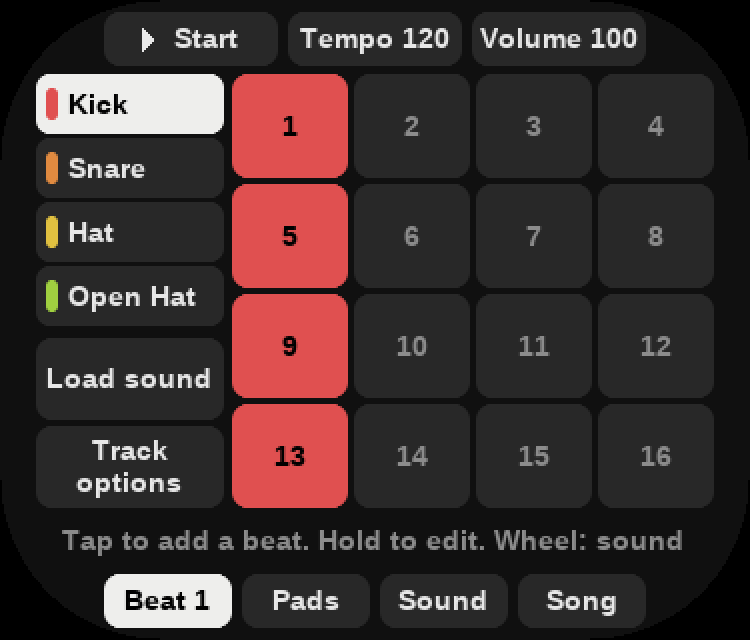
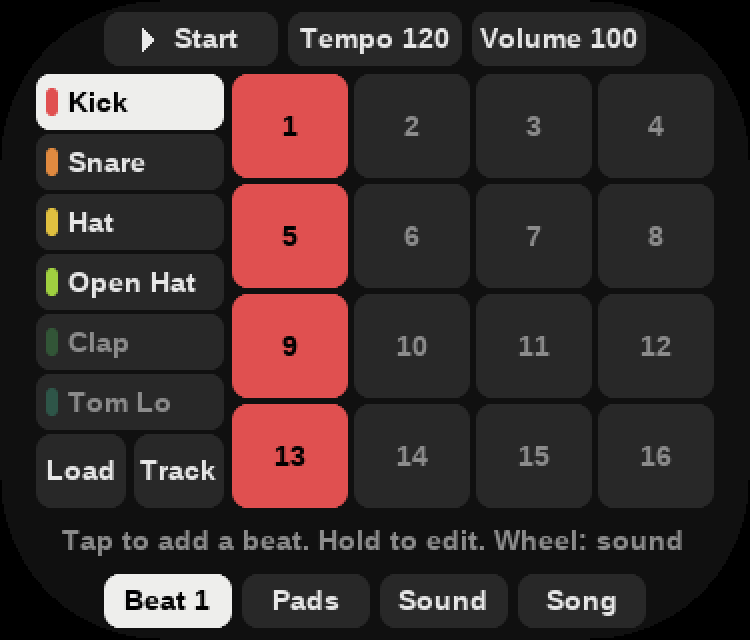
groovebox: small Load and Track buttons, six sounds in the list
The list showed four of sixteen sounds because Load and Track options
each took a full-width row. They now share one row under it, labelled
Load and Track, or Load and More on Sound.

Changed region(s): [[0.0613, 0.3125, 0.276, 0.6562], [0.0307, 0.125, 0.3067, 0.2812], [0.0613, 0.6875, 0.3067, 0.7812]]

diff --git a/src/ui.c b/src/ui.c
@@ -54,8 +54,11 @@
 #define BOXES 9            /* a page of them */
 #define ARROW_W 33
 #define ARROW_X 287
-#define LIST_ROWS 4
-#define LIST_ROW 32
+#define LIST_ROWS 6
+#define LIST_ROW 30
+#define SMALL_Y (BODY_Y + LIST_ROWS * LIST_ROW) /* the two small buttons under the list */
+#define SMALL_H (BODY_Y + BODY_H - SMALL_Y)
+#define SMALL_W ((LEFT_W - GAP) / 2)
 #define ROW_H 31           /* the picker's rows */
 #define PICK_ROWS 7
 #define PICK_MAX 512       /* ponytail: the first 512 of a folder are listed */
@@ -148,6 +151,7 @@ static int box_x(int i) { return BOX_X + (i % 3) * (BOX_W + GAP); }
 static int box_y(int i) { return BODY_Y + (i / 3) * (BOX_H + GAP); }
 static int left_h(int n) { return (BODY_H - (n - 1) * GAP) / n; }
 static int left_y(int n, int k) { return BODY_Y + k * (left_h(n) + GAP); }
+static int small_x(int k) { return SIDE + (k - 3) * (LEFT_W - SMALL_W); } /* slots 3 and 4, flush with the list both sides */
 static int pill_x(int i) { return EDGE + i * (PILL_W + PILL_GAP); }
 static int tab_x(int i) { return EDGE + i * (TAB_W + PILL_GAP); }
 static int left_count(void) { return !ui.over && ui.mode == M_PADS ? 4 : 5; }
@@ -693,10 +697,10 @@ static int left_label(int k, char *out, size_t n) {
     if (boxes_on()) pages = (boxes(id) + BOXES - 1) / BOXES;
     if (ui.over == O_STEP) s = k == 3 && step_cur()->on ? "Remove step" : k == 4 ? "Hear it" : "";
     else if (ui.over || ui.mode == M_SOUND) {
-        if (k == 3 && ui.mode == M_SOUND && !ui.over) s = "Load sound";
+        if (k == 3 && ui.mode == M_SOUND && !ui.over) s = "Load";
         else if (k == 4 && pages > 1) { snprintf(out, n, "More %d/%d", ui.box_page + 1, pages); return 0; }
     }
-    else if (ui.mode == M_BEAT) s = k == 3 ? "Load sound" : k == 4 ? "Track options" : "";
+    else if (ui.mode == M_BEAT) s = k == 3 ? "Load" : k == 4 ? "Track" : "";
     else if (ui.mode == M_PADS) s = pads[k], lit = k == 3 ? seq.rec : k == ui.pads;
     else s = song[k];
     snprintf(out, n, "%s", s);
@@ -729,10 +733,11 @@ static void left_tap(int k, long long now) {
     else if (k == 3) { if (!ui.job) job_start(J_EXPORT, "Saving", now); }
     else open_over(O_SET);
 }
-static void left_touch(int y, long long now) {
-    int n = left_count(), k = clampi((y - BODY_Y) / (left_h(n) + GAP), 0, n - 1);
-    if (list_shown() && k < 3) select_sound(ui.list_top + clampi((y - BODY_Y) / LIST_ROW, 0, LIST_ROWS - 1));
-    else left_tap(k, now);
+static void left_touch(int x, int y, long long now) {
+    int n = left_count();
+    if (!list_shown()) left_tap(clampi((y - BODY_Y) / (left_h(n) + GAP), 0, n - 1), now);
+    else if (y < SMALL_Y) select_sound(ui.list_top + clampi((y - BODY_Y) / LIST_ROW, 0, LIST_ROWS - 1));
+    else left_tap(x < small_x(4) ? 3 : 4, now);
 }
 
 /* ---- touches and keys ---- */
@@ -762,7 +767,7 @@ static void touch_down(int x, int y, long long now) {
     } else if (y >= BODY_Y + BODY_H) { /* the line above the tabs holds Beat's page arrows */
         if (x >= ARROW_X && ui.mode == M_BEAT && !ui.over && track_pages() > 1)
             ui.page = clampi(ui.page + (x < ARROW_X + ARROW_W + 2 ? -1 : 1), 0, track_pages() - 1);
-    } else if (x < GRID_X - 2) left_touch(y, now);
+    } else if (x < GRID_X - 2) left_touch(x, y, now);
     else if (boxes_on()) box_touch(clampi((y - BODY_Y) / (BOX_H + GAP), 0, 2) * 3 + clampi((x - BOX_X) / (BOX_W + GAP), 0, 2), now);
     else cell_down(clampi((y - BODY_Y) / (CELL_H + GAP), 0, 3) * 4 + clampi((x - GRID_X) / (CELL_W + GAP), 0, 3), now); /* no dead gaps */
 }
@@ -1000,7 +1005,9 @@ static void left_draw(pix *c) {
     }
     for (int k = 0; k < n; ++k) {
         int lit = left_label(k, b, sizeof b);
-        if (b[0]) button(c, SIDE, left_y(n, k), LEFT_W, h, b, lit, k == 3 && n == 4 ? RED : SEL);
+        if (!b[0]) continue;
+        if (list_shown()) button(c, small_x(k), SMALL_Y, SMALL_W, SMALL_H, b, lit, SEL);
+        else button(c, SIDE, left_y(n, k), LEFT_W, h, b, lit, k == 3 && n == 4 ? RED : SEL);
     }
 }
 static void boxes_draw(pix *c) {

diff --git a/src/check.c b/src/check.c
@@ -84,7 +84,7 @@ static void press(int code, long long at) {
 static void centre_on_row(int row, long long at) { pick.cur = row, press(KEY_CENTRE, at); }
 static void run_job(long long at) { static pix cv[W * H]; ui_render(cv, at); ui_tick(at + 1); }
 static void tap_box(int i, long long at) { tap_at(box_x(i) + 5, box_y(i) + 5, at); }
-static void tap_left(int n, int k, long long at) { tap_at(SIDE + 5, left_y(n, k) + 5, at); }
+static void tap_left(int n, int k, long long at) { if (list_shown()) tap_at(small_x(k) + 5, SMALL_Y + 5, at); else tap_at(SIDE + 5, left_y(n, k) + 5, at); }
 static void hold_step(int i, long long at) { event_t h = tap_of(cell_x(i) + 5, cell_y(i) + 5, 'd'); ui_event(&h, at); ui_tick(at + HOLD_MS); h.what = 'u'; ui_event(&h, at + HOLD_MS + 1); }
 static int glass_x(int y) { /* the width the glass hides on row y */
     int d = y < GLASS_R ? GLASS_R - y : y >= H - GLASS_R ? y - (H - GLASS_R) + 1 : 0;
@@ -201,9 +201,10 @@ int main(void) {
       press(KEY_RETURN, 440); assert(!ui.over && s5->on && !seq.ntake);
       hold_step(5, 450); assert(ui.over == O_STEP); tap_left(5, 3, 800); assert(!ui.over && !s5->on && s5->level == UNSET && !s5->flags); }
     /* the wheel walks the sounds, the list's window following; tapping a row picks it */
-    for (int i = 0; i < 5; ++i) ui_event(&w, 810);
-    assert(ui.sound == 5 && ui.list_top == 2);
+    for (int i = 0; i < 7; ++i) ui_event(&w, 810);
+    assert(ui.sound == 7 && ui.list_top == 2);
     tap_at(SIDE + 5, BODY_Y + 1 * LIST_ROW + 5, 811); assert(ui.sound == 3);
+    tap_at(SIDE + 5, SMALL_Y - 1, 811); assert(ui.sound == 7 && !ui.over && !pick.open); /* the last row runs right down to the buttons */
     w.a = 13; for (int i = 0; i < 20; ++i) ui_event(&w, 812);
     w.a = -13; assert(!ui.sound && !ui.list_top);
     /* the top row: Start runs; Tempo lends the wheel until anything else is touched; so does Volume */
@@ -492,6 +493,7 @@ int main(void) {
       for (int i = 0; i < BOXES; ++i) on_glass(box_x(i), box_y(i), BOX_W, BOX_H);
       for (int c = 4; c <= 5; ++c) for (int i = 0; i < c; ++i) on_glass(SIDE, left_y(c, i), LEFT_W, left_h(c));
       for (int r = 0; r < LIST_ROWS; ++r) on_glass(SIDE, BODY_Y + r * LIST_ROW, LEFT_W, LIST_ROW - 2);
+      for (int k = 3; k <= 4; ++k) on_glass(small_x(k), SMALL_Y, SMALL_W, SMALL_H);
       for (int r = 0; r < PICK_ROWS; ++r) on_glass(SIDE, BODY_Y + r * ROW_H, BODY_W, ROW_H - 2); }
     /* a project with no steps starts with a beat; one with any keeps what it has */
     seq_init(); seq_starter(); assert(seq.pat[0].s[0][0].on && seq.pat[0].s[0][12].on && seq.pat[0].s[1][4].on && !seq.pat[0].s[1][0].on && seq.pat[0].s[2][2].on);
@@ -508,7 +510,7 @@ int main(void) {
     ui.sound = 0; ui_event(&w, 50); assert(ui.sound == 1);
     /* on a break the pads are its slices and tricks: the eleventh is the last that means anything (ASan) */
     assert(load_break_builtin(3, 0)); ui.sound = 3; tap_pad(0, 80); tap_pad(10, 90); tap_pad(15, 100);
-    /* Track options: Steps makes pages, the keys and the arrows turn them, a short track keeps its cells */
+    /* Track: Steps makes pages, the keys and the arrows turn them, a short track keeps its cells */
     clear_pads(); seq_init(); engine_init(); ui_init(); memset(&pick, 0, sizeof pick); ui.sound = 1;
     tap_left(5, 4, 10); assert(ui.over == O_TRACK); tap_box(T_STEPS, 12);
     for (int i = 0; i < 16; ++i) ui_event(&w, 13);

diff --git a/README.md b/README.md
@@ -16,7 +16,7 @@ USB it opens the first USB-Audio card at 44.1 kHz 16-bit. The volume starts wher
 Open it and press **Start**: a plain beat is already there. Tap the numbered boxes to add or remove
 hits, and turn the wheel to move to another sound. That is all you need to begin.
 
-<img src="docs/beat.png" width="375" alt="The Beat screen: Start, Tempo and Volume across the top, the sound list with Load sound and Track options on the left, sixteen numbered steps on the right, a line saying what the keys do, and the tabs Beat, Pads, Sound and Song along the bottom.">
+<img src="docs/beat.png" width="375" alt="The Beat screen: Start, Tempo and Volume across the top, the sound list with Load and Track buttons under it on the left, sixteen numbered steps on the right, a line saying what the keys do, and the tabs Beat, Pads, Sound and Song along the bottom.">
 
 The line above the tabs always says what the keys do on that screen. A value is always a labelled
 box: tap it, then turn the wheel. Tempo and Volume work the same way: tap one and it lights, the
@@ -34,14 +34,14 @@ wheel changes it, and tapping anything else hands the wheel back.
 ### Beat
 
 The list is your sixteen sounds, and the boxes are the steps of the one that is lit. A row of four
-is one beat. A coloured bar in the list means that sound has steps. **Load sound** gives the lit
+is one beat. A coloured bar in the list means that sound has steps. **Load** gives the lit
 sound a new one.
 
 Hold a step to open it: its note, volume, decay and filter, **Roll** (how many hits in the step),
 **Chance**, **Accent**, **Slide** and **Nudge**. **Remove step** takes it off, and **Done** or Return
 comes back.
 
-**Track options** has **Steps** (up to 64; arrows appear beside the hint for the pages), **Speed**
+**Track** has **Steps** (up to 64; arrows appear beside the hint for the pages), **Speed**
 (1/32 to 1/4, with triplets), **Clear steps** and **Undo**. On a synth or the 303, **Make tune**
 writes a line in the song's key and scale, **Vary tune** changes a few of its steps, and **Busy**
 sets how many notes it uses. Tracks of different lengths and speeds drift against each other, and a
@@ -62,7 +62,7 @@ The lit sound's controls. **More** turns the page. A synth starts with its **Pre
 walks through them; the 909, 808, 303 and drum loops show their own controls after Volume, Pitch,
 Echo, Reverb and Pan. Centre plays the sound, so you can hear each change.
 
-### Load sound
+### Load
 
 Wheel and Centre, or tap a row; **Back** or Return goes up one.
 
